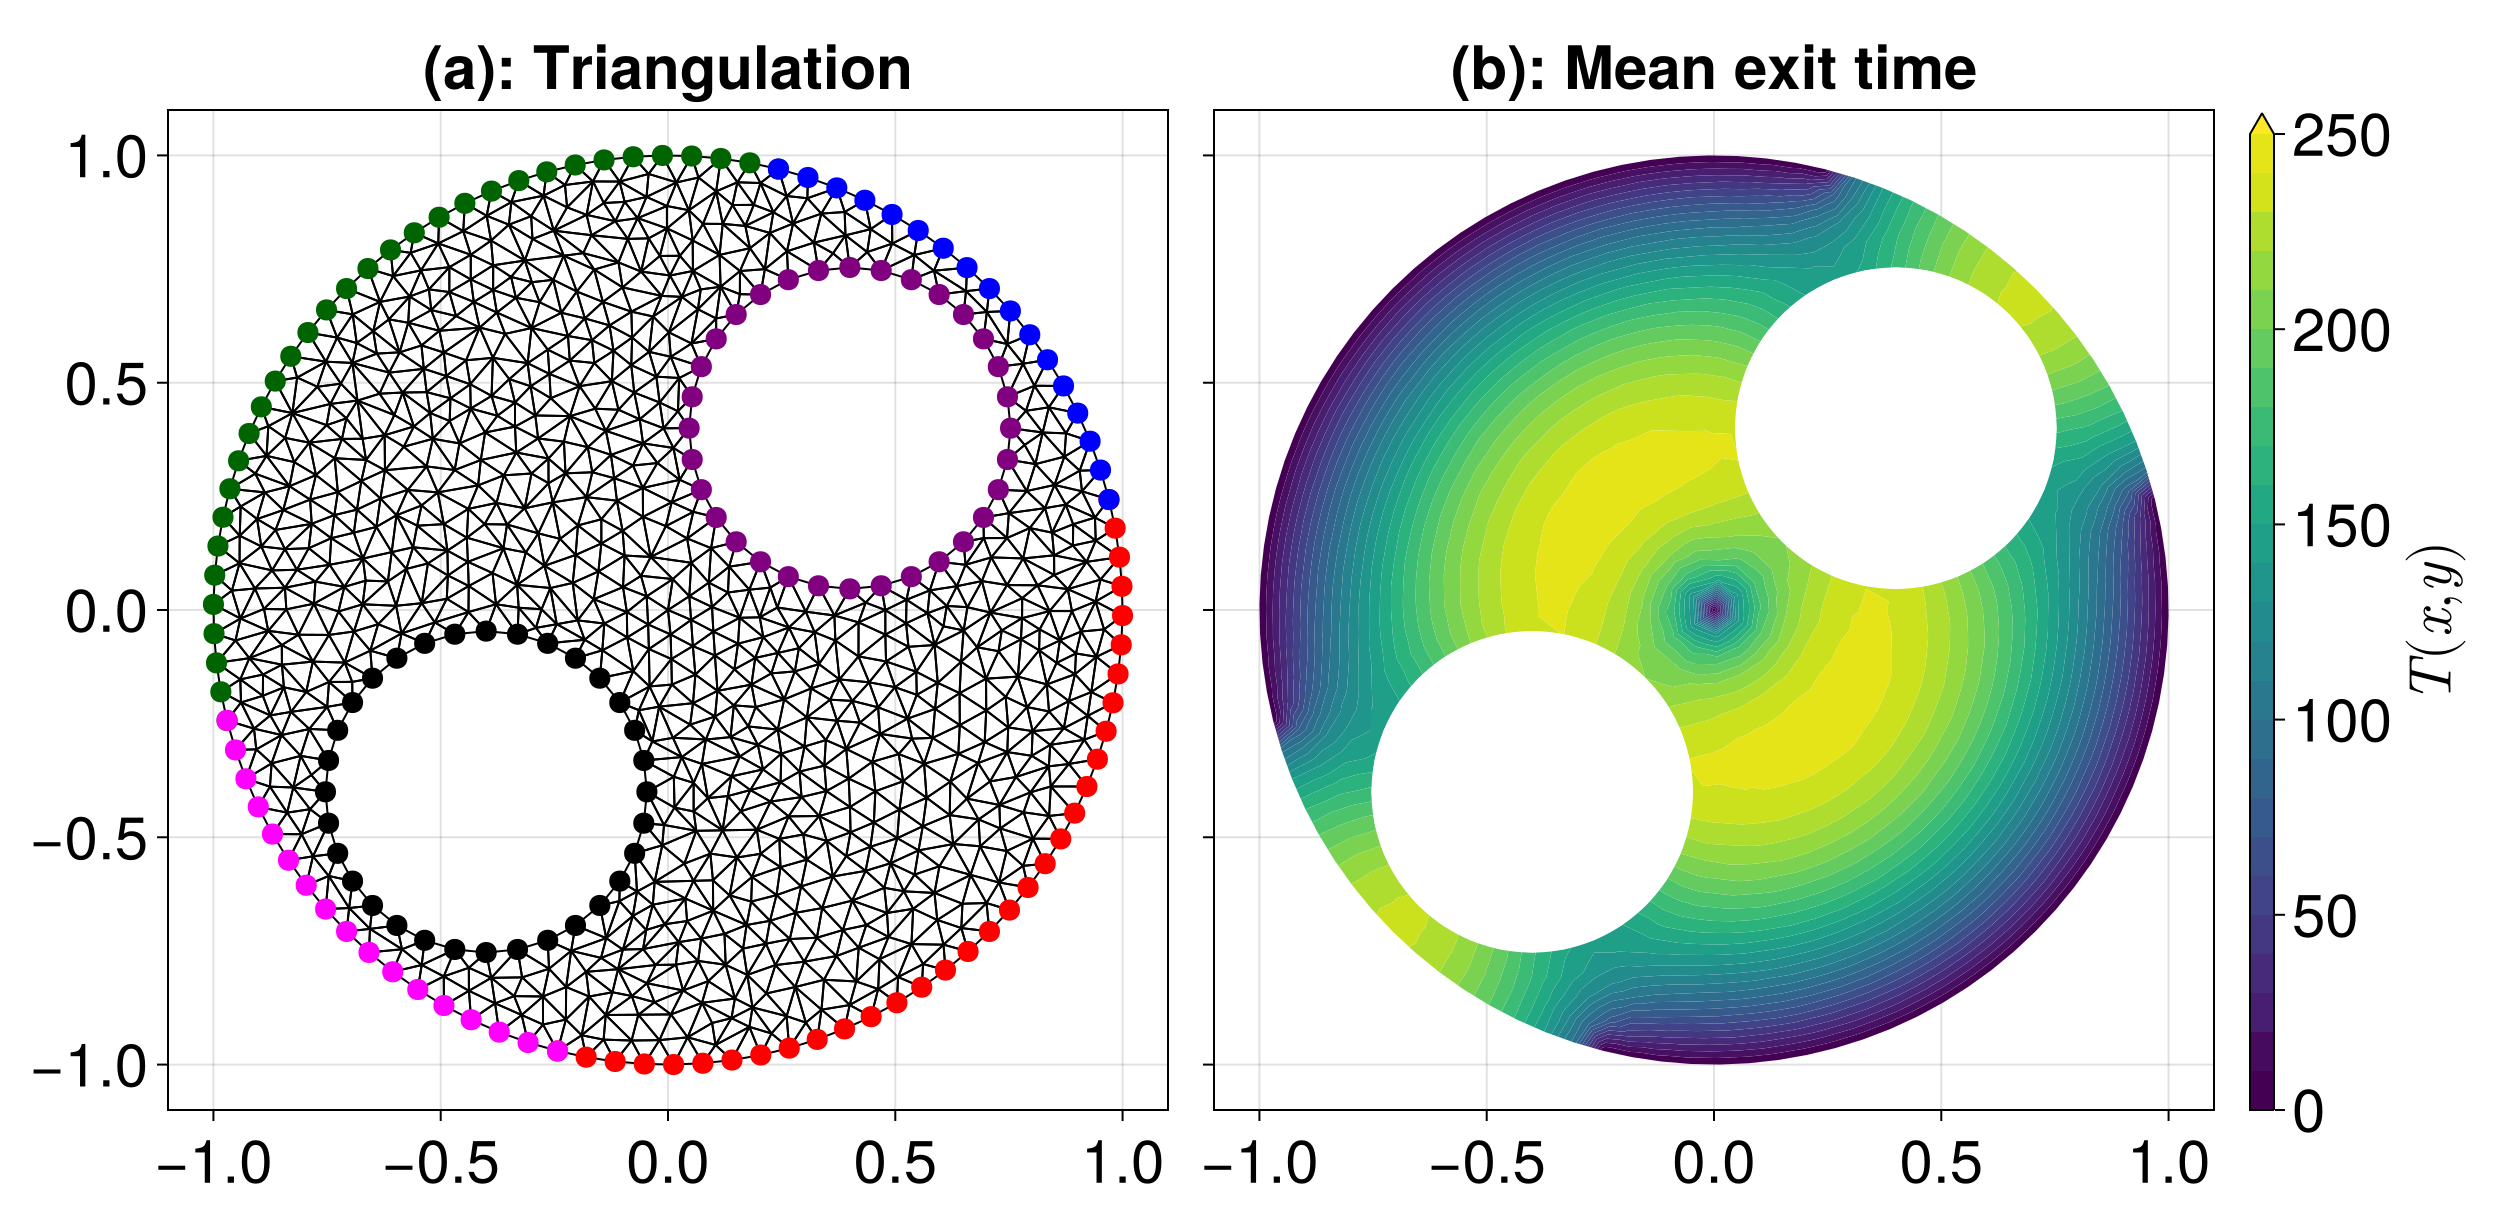
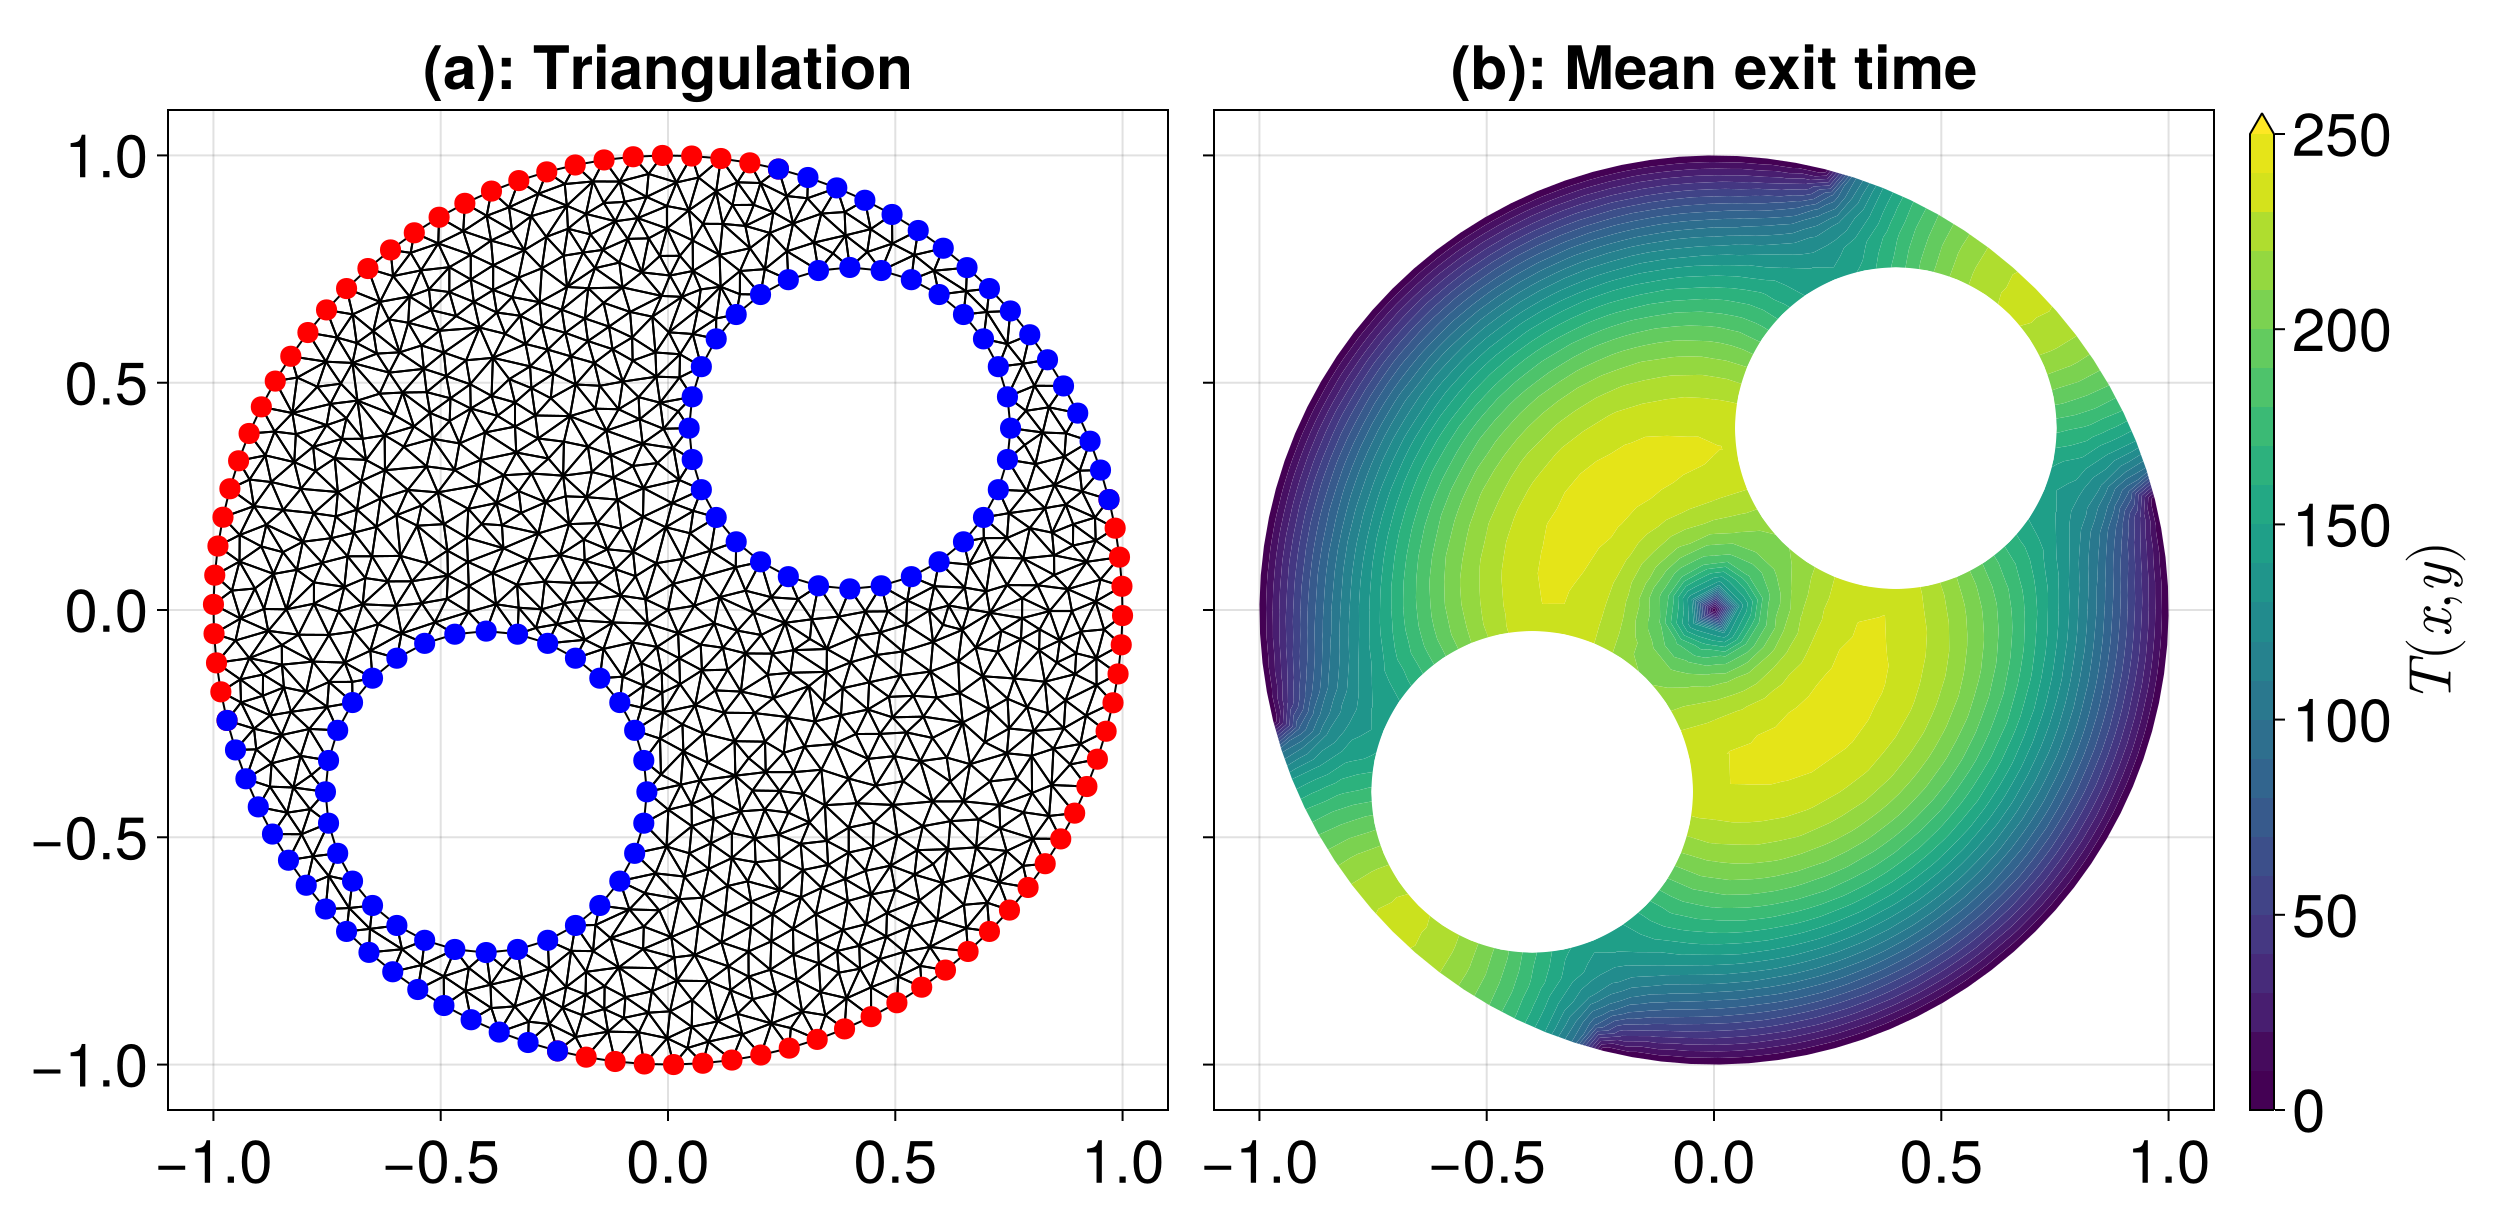
refs

diff --git a/paper/paper.md b/paper/paper.md
@@ -47,9 +47,7 @@ T(x, y) & = & 0 & (x, y) = (x_s, y_s), \\
 \nabla T(x, y) \cdot \hat{\boldsymbol n}(x, y) & = & 0 & (x, y) \in \Gamma_r. 
 \end{array}
 $$
-Here, $T(x, y)$ denotes the mean exit time of a particle exiting $\Omega$ with diffusivity $D$ starting at $(x, y)$ [@redner2001guide; @carr2022mean], $\hat{\boldsymbol n}(x, y)$ is the unit normal vector field on $\Gamma_r$, $(x_s, y_s) = (0, 0)$, and the domain $\Omega$ with boundary $\partial\Omega = \Gamma_a \cup \Gamma_r$ is shown in \autoref{fig:0}. This setup defines a mean exit time where the particle can only exit through $\Gamma_a$ or through the sink $(x_s, y_s)$, and it gets reflected off of $\Gamma_r$.
-
-![The domain $\Omega$. The red part of the boundary defines the absorbing boundary $\Gamma_a$, and the blue part defines the reflecting boundary $\Gamma_r$.](figure0.png){ width=20%, label = "fig:0"}
+Here, $T(x, y)$ denotes the mean exit time of a particle exiting $\Omega$ with diffusivity $D$ starting at $(x, y)$ [@redner2001guide; @carr2022mean], $\hat{\boldsymbol n}(x, y)$ is the unit normal vector field on $\Gamma_r$, $(x_s, y_s) = (0, 0)$, and the domain $\Omega$ with boundary $\partial\Omega = \Gamma_a \cup \Gamma_r$ is shown in \autoref{fig:1}(a). This setup defines a mean exit time where the particle can only exit through $\Gamma_a$ or through the sink $(x_s, y_s)$, and it gets reflected off of $\Gamma_r$.
 
 The code to generate a mesh of the domain in \autoref{fig:0} is given below. We use curves to define the boundary so that curve-bounded refinement can be applied [@gosselin2009delaunay]. The resulting mesh is shown in \autoref{fig:1}, together with a solution of the mean exit time problem with $D = 6.25 \times 10^{-4}$; FiniteVolumeMethod.jl [@vandenheuvel2024finite] is used to solve this problem, and the code for this can be found [here](https://github.com/JuliaGeometry/DelaunayTriangulation.jl/blob/paper/paper/paper.jl).
 
@@ -78,7 +76,7 @@ tri = triangulate([sink], boundary_nodes=[C0, [[C1]], [[C2]]])
 refine!(tri; max_area=1e-3get_area(tri))
 ```
 
-![(a) The generated mesh using DelaunayTriangulation.jl for the mean exit time domain. The different parts of the boundary are shown with different coloured dots. (b) The solution to the mean exit time problem using the mesh from (a) together with FiniteVolumeMethod.jl [@vandenheuvel2024finite].\label{fig:1}](figure1.png)
+![(a) The generated mesh using DelaunayTriangulation.jl for the mean exit time domain. The red dots along the boundary define the absorbing part of the boundary, $\Gamma_a$, and the blue parts define the reflecting part, $\Gamma_r$. (b) The solution to the mean exit time problem using the mesh from (a) together with FiniteVolumeMethod.jl [@vandenheuvel2024finite].\label{fig:1}](figure1.png)
 
 We now give an example using Voronoi tessellations. Our example is motivated from Lloyd's algorithm for $k$-means clustering [@du1999centroidal]. We generate $k$ random points and compute their centroidal Voronoi tessellation. We then generate data and label them according to which Voronoi cell they belong to.[^1] The code is given below, and the resulting plot is given in \autoref{fig:2}.
 
